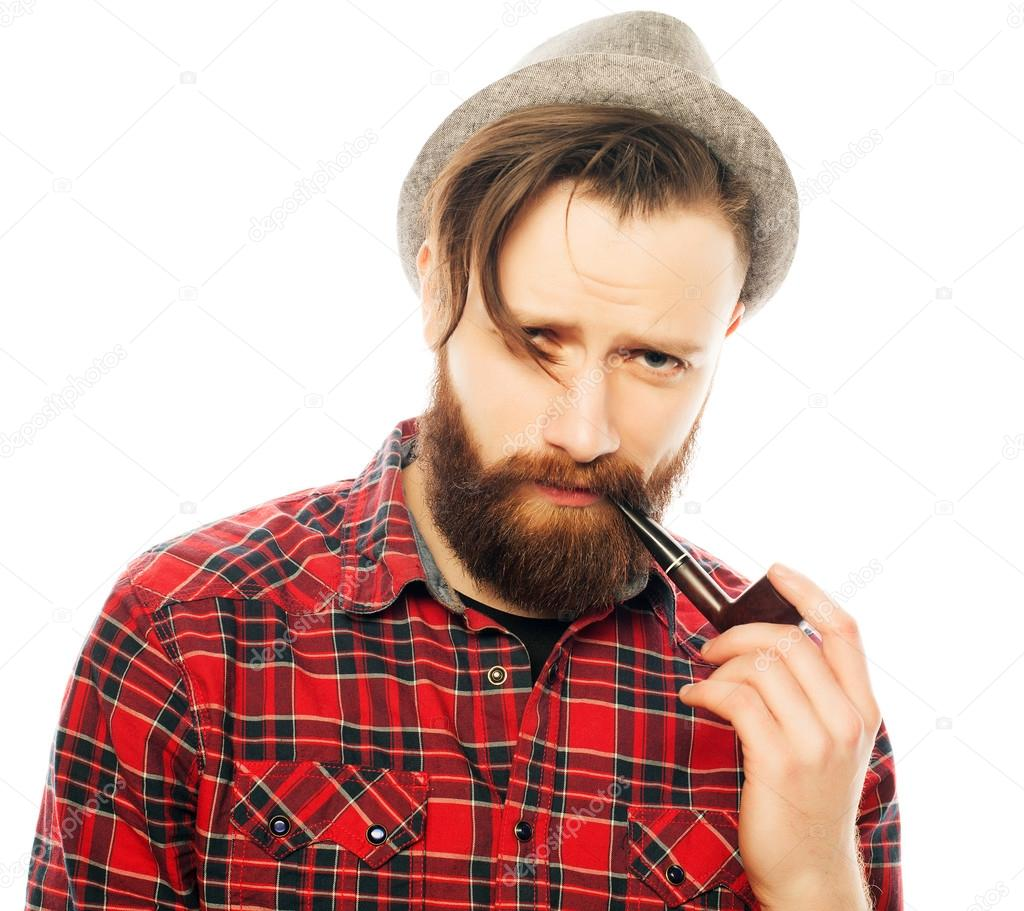
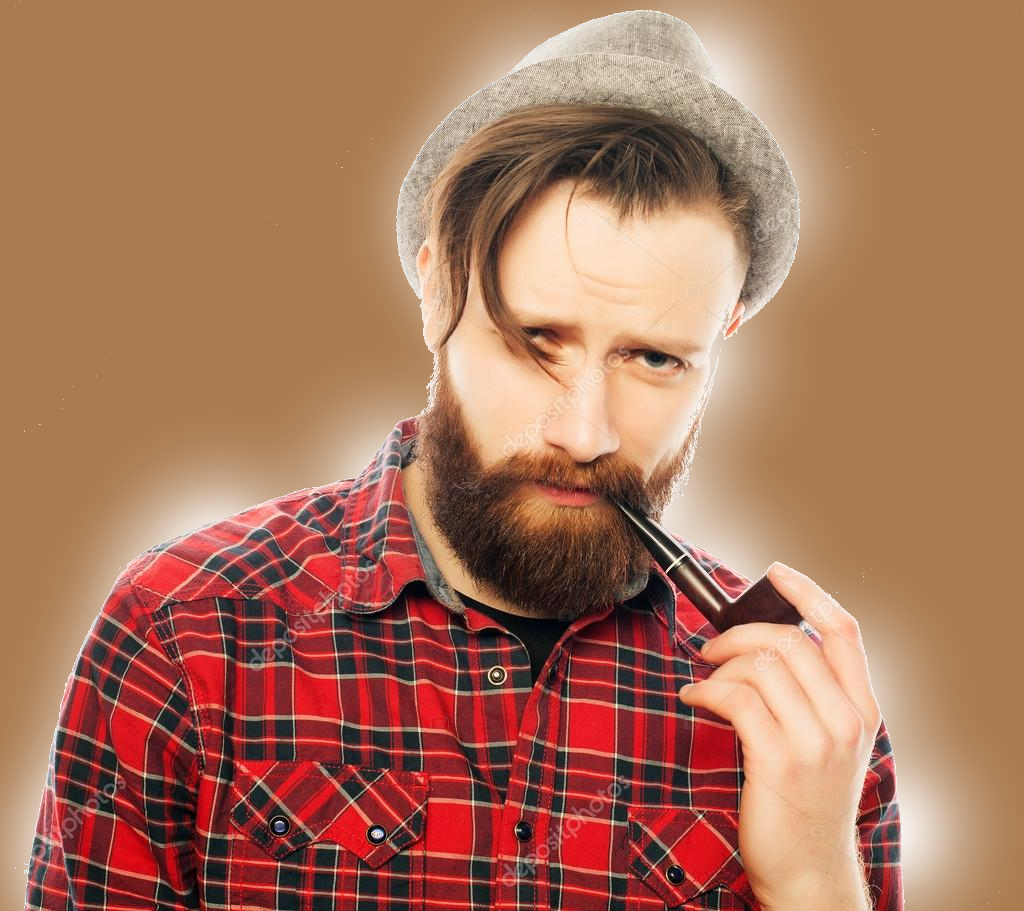
15/07/2021

diff --git a/assets/styles/app.css b/assets/styles/app.css
@@ -1,5 +1,5 @@
 body {
-    background-color: lightgray;
+    background: linear-gradient(0.25turn, #aa7b4f, #ebf8e1, #3c2213);
     font-size: 2em;
     margin: 0;
     padding: 0;
@@ -10,8 +10,42 @@ html{
     -ms-overflow-style: none;
     scrollbar-width: none;
 }
-a {
+#bodyPipe{
+    background: linear-gradient(0.25turn, #aa7b4f, #ebf8e1);
+    padding: 5%;
+    cursor: url("/public/images/curseurPipe.png"),auto;
+}
+#bodyPipe a{
+    cursor: url("/public/images/curseurPipe.png"),auto;
+}
+#bodyCafe{
+    background: linear-gradient(0.25turn,#ebf8e1, #3c2213);
+    padding: 5%;
+    cursor: url("/public/images/curseurCafe.png"),auto;
+}
+#bodyCafe a{
+    cursor: url("/public/images/curseurCafe.png"),auto;
+}
+footer{
+    border-top: 1px solid black;
+}
+/* footer ul{
+    display:flex;
+    justify-content: center;
+    list-style: none;
+} */
+nav{
+    border-bottom: 1px solid black;
+}
+#navbar ul{
+    display:flex;
+    place-content: space-between;
+    list-style: none;
+}
+
+a{
     text-decoration: none;
+    color: black;
 }
 #containerIntro{
     width: fill;
@@ -26,14 +60,14 @@ a {
     height: fill;
     background:url("/public/images/pipe-gauche.png")no-repeat center center ;
     background-size: 100%;
-    cursor: url("/public/images/testCurseur.png"),auto;
+    cursor: url("/public/images/curseurPipe.png"),auto;
 }
 #blocEntrantDroite{
     width: 40%;
     height: fill;
     background:url("/public/images/tasse-droite.png")no-repeat center center ;
     background-size: 100%;
-    cursor: url("/public/images/testCurseur2.png"),auto;
+    cursor: url("/public/images/curseurCafe.png"),auto;
 }
 /* Mise en place écritures intro */
 #textePipeIntro{
@@ -43,8 +77,8 @@ a {
     text-decoration: 1px black solid;
 }
 #textePipeIntro a{
+    cursor: url("/public/images/curseurPipe.png"),auto;
     color: #3c2213;
-    cursor: url("/public/images/testCurseur.png"),auto ;
 }
 #texteOuIntro{
     color: white;
@@ -58,8 +92,8 @@ a {
     text-decoration: 1px black solid;
 }
 #texteCafeIntro a{
+    cursor: url("/public/images/curseurCafe.png"),auto;
     color: #aa7b4f;
-    cursor: url("/public/images/testCurseur2.png"),auto;
 }
 #textePipeIntro:hover a{
     text-decoration: overline underline dotted whitesmoke;
